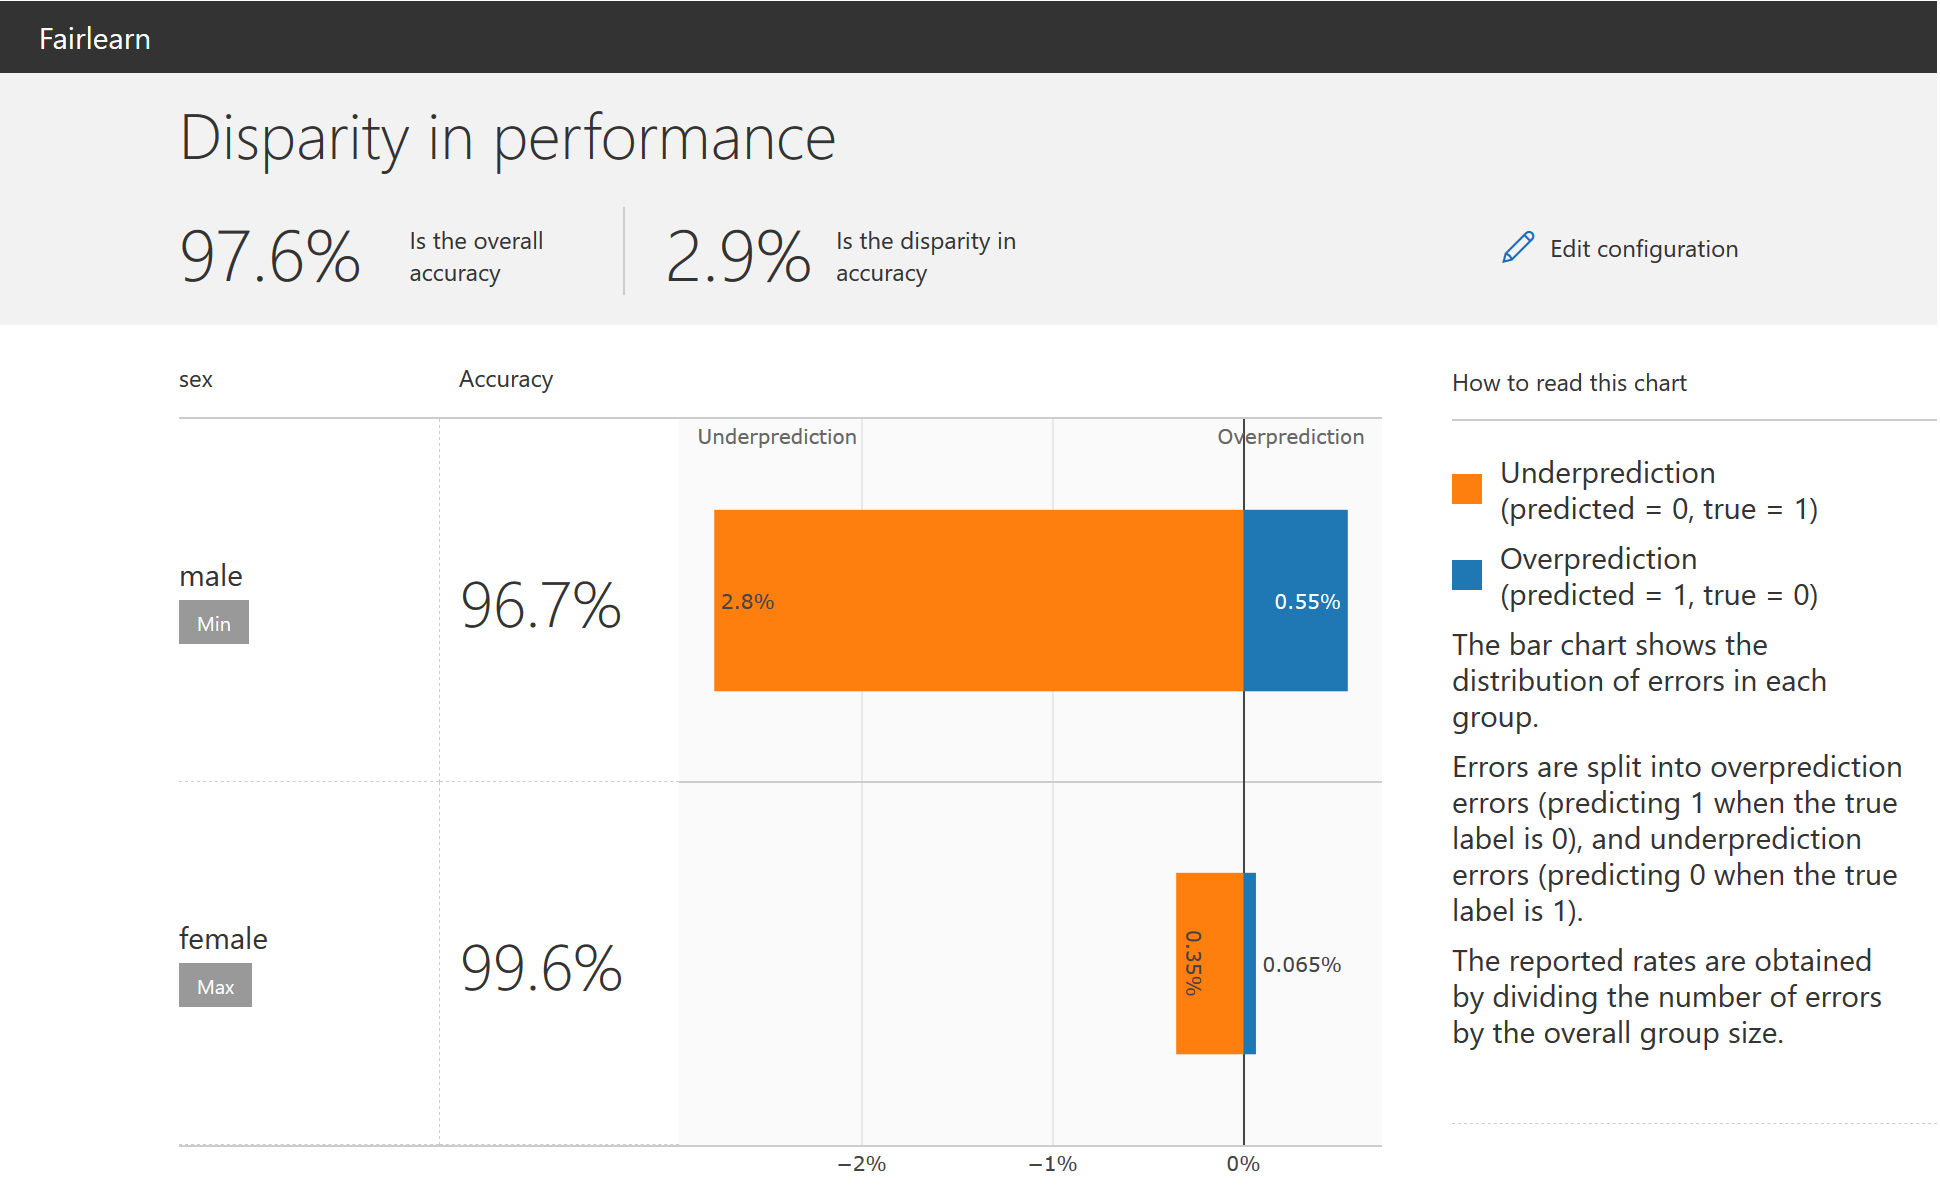
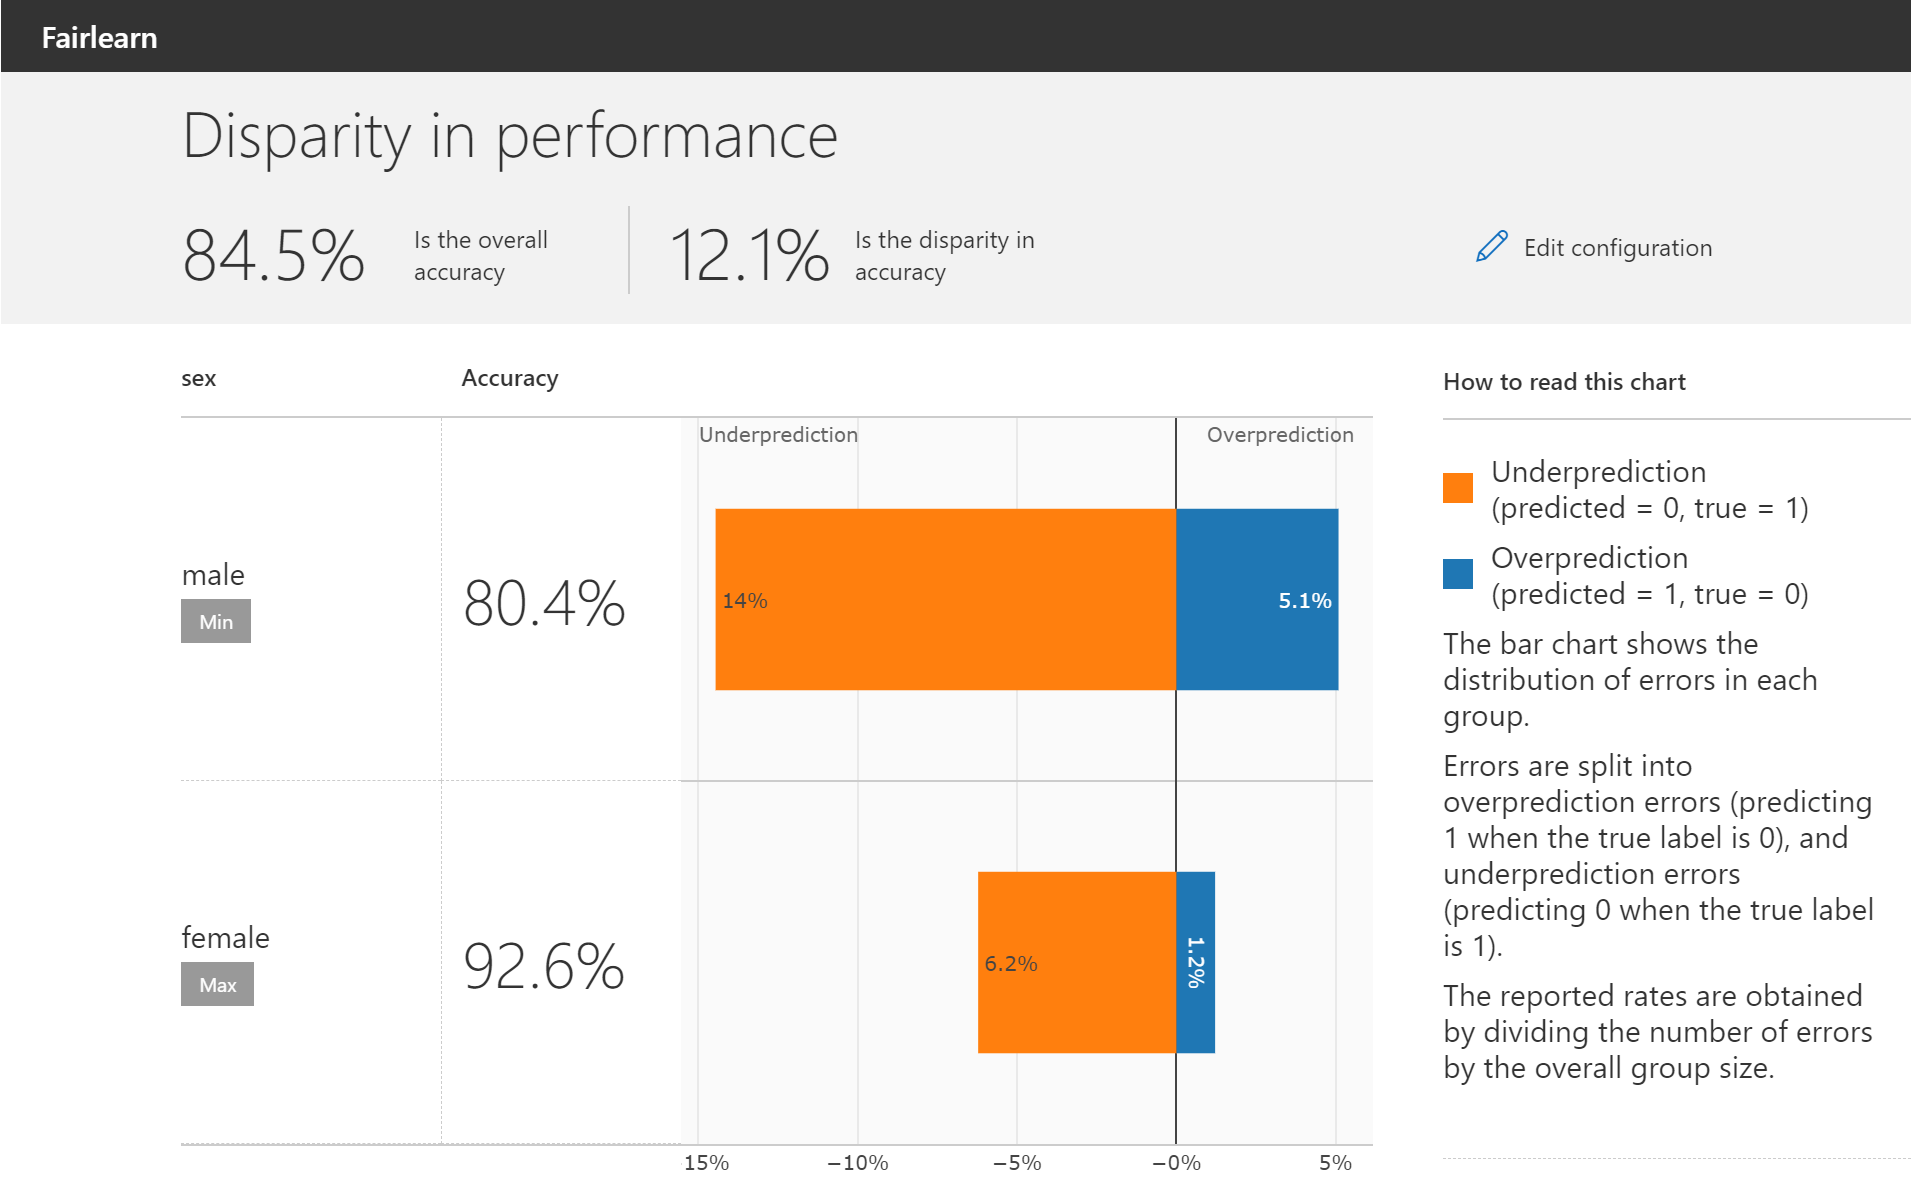
Quickstart update to avoid overfitting

diff --git a/docs/quickstart.rst b/docs/quickstart.rst
@@ -86,19 +86,19 @@ we can evaluate metrics to get a group summary as below:
     >>> from sklearn.metrics import accuracy_score
     >>> from sklearn.tree import DecisionTreeClassifier
     >>> 
-    >>> classifier = DecisionTreeClassifier()
+    >>> classifier = DecisionTreeClassifier(min_samples_leaf=10, max_depth=4)
     >>> classifier.fit(X, y_true)
     >>> 
     >>> y_pred = classifier.predict(X)
     >>> group_summary(accuracy_score, y_true, y_pred, sensitive_features=sex)
-    {'overall': 0.976413500813857, 'by_group': {'female': 0.9958221149382601, 'male': 0.9668196420376319}}
+    {'overall': 0.8445686557538159, 'by_group': {'female': 0.9256336459010306, 'male': 0.8044974759063791}}
 
 Additionally, Fairlearn has lots of other standard metrics built-in, such as
 selection rate, i.e., the percentage of the population with label 1:
 
     >>> from fairlearn.metrics import selection_rate_group_summary
     >>> selection_rate_group_summary(y_true, y_pred, sensitive_features=sex)
-    {'overall': 0.2249623783053346, 'by_group': {'female': 0.1065824900194968, 'male': 0.28347865993575033}}
+    {'overall': 0.1615429501550935, 'by_group': {'female': 0.059418809766966854, 'male': 0.21202386415787058}}
 
 For a visual representation of the metrics try out the Fairlearn dashboard.
 While this page shows only screenshots, the actual dashboard is interactive.
@@ -137,13 +137,13 @@ a vastly reduced difference in selection rate:
     >>> np.random.seed(0)  # set seed for consistent results with ExponentiatedGradient
     >>> 
     >>> constraint = DemographicParity()
-    >>> classifier = DecisionTreeClassifier()
+    >>> classifier = DecisionTreeClassifier(min_samples_leaf=10, max_depth=4)
     >>> mitigator = ExponentiatedGradient(classifier, constraint)
     >>> mitigator.fit(X, y_true, sensitive_features=sex)
     >>> y_pred_mitigated = mitigator.predict(X)
     >>> 
     >>> selection_rate_group_summary(y_true, y_pred_mitigated, sensitive_features=sex)
-    {'overall': 0.2674057922053991, 'by_group': {'female': 0.2603286602915235, 'male': 0.27090408444240477}}
+    {'overall': 0.15503209360891865, 'by_group': {'female': 0.142976511001764, 'male': 0.160991280403855}}
 
 Similarly, we can explore the difference between the initial model and the
 mitigated model with respect to selection rate and accuracy in the dashboard
